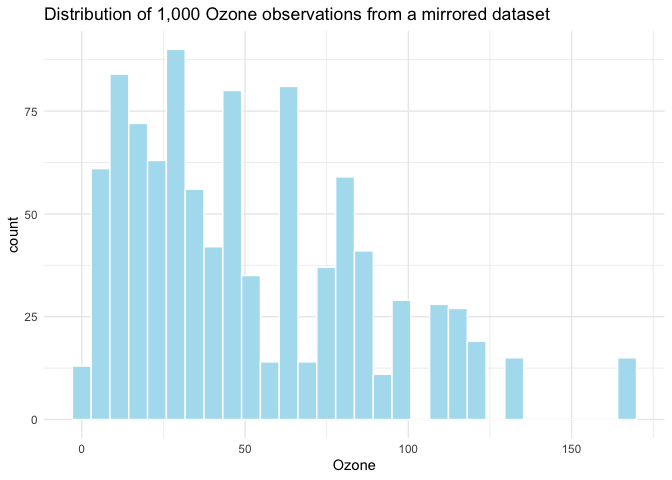
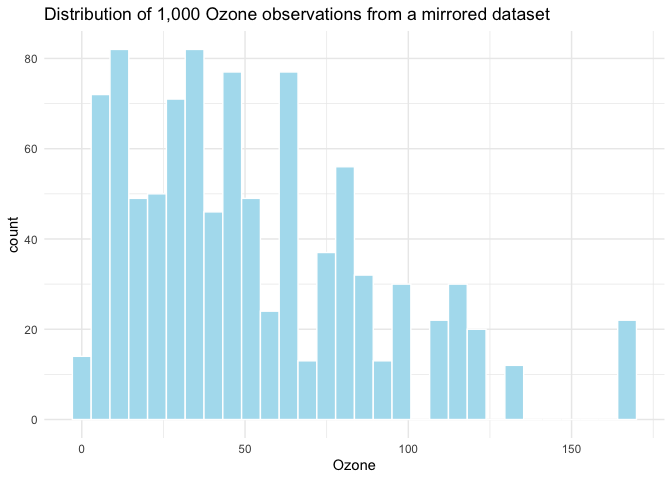
Tinkering

diff --git a/README.md b/README.md
@@ -82,7 +82,7 @@ ggplot(air_mirror$simulated_df) +
   theme_minimal() +
   labs(title = "Distribution of 1,000 Ozone observations from a mirrored dataset")
 #> `stat_bin()` using `bins = 30`. Pick better value with `binwidth`.
-#> Warning: Removed 14 rows containing non-finite values (`stat_bin()`).
+#> Warning: Removed 20 rows containing non-finite values (`stat_bin()`).
 ```
 
 <img src="man/figures/README-example3-1.png" width="100%" />
